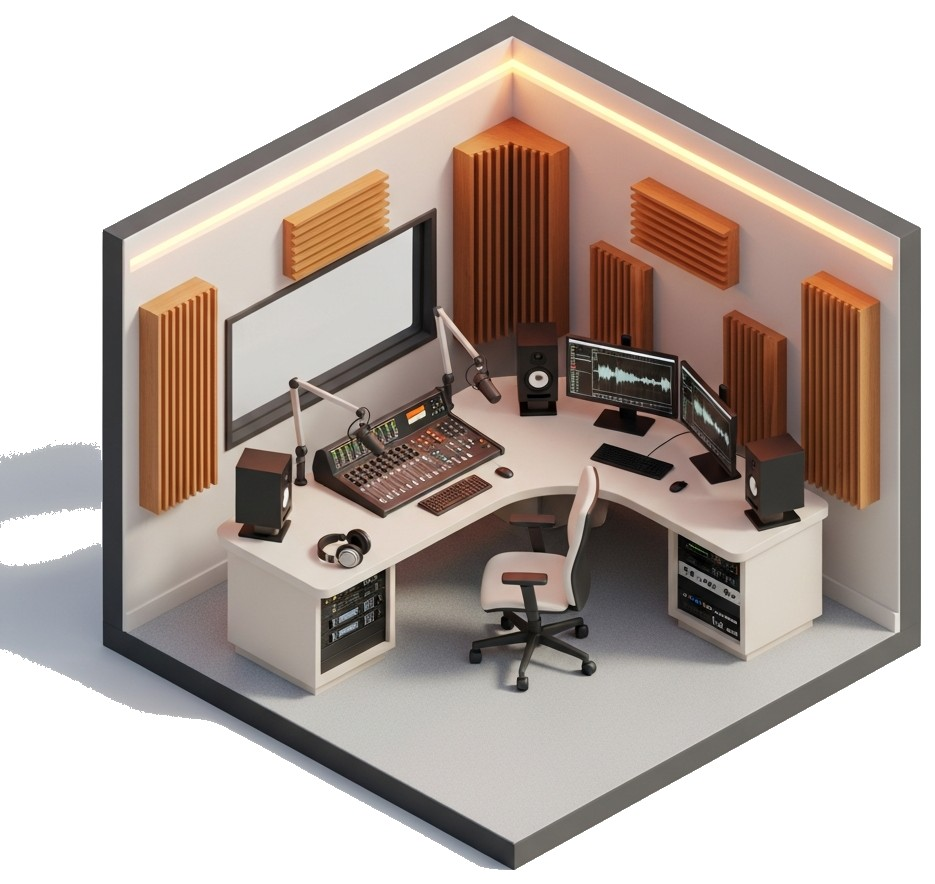
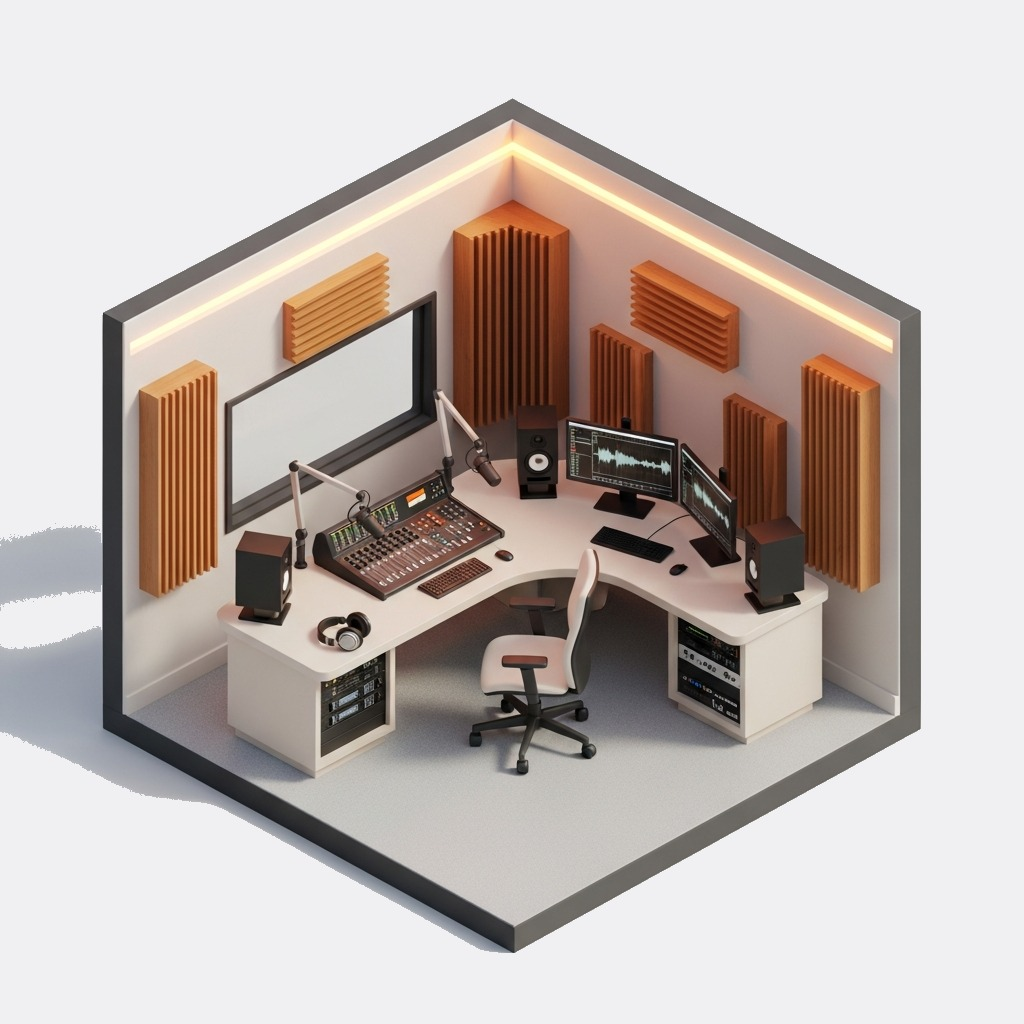
auto-commit for 9d060fbd-8619-4c5f-952d-bc6b7d9a05b0

diff --git a/frontend/src/components/workspace/CreateMainSiteWizard.js b/frontend/src/components/workspace/CreateMainSiteWizard.js
@@ -23,6 +23,14 @@ const SITE_TYPE_BACKGROUNDS = {
   technical: '/images/env_technical.jpg',
   wp_security: '/images/env_wp_security.jpg',
 };
+const WIZARD_THUMBNAILS = {
+  radio: '/images/wiz_radio.jpg',
+  server: '/images/wiz_server.jpg',
+  external_host: '/images/wiz_external_host.jpg',
+  task_scheduler: '/images/wiz_task_scheduler.jpg',
+  technical: '/images/wiz_technical.jpg',
+  wp_security: '/images/wiz_wp_security.jpg',
+};
 
 const SITE_TYPES = [
   { id: 'radio',          icon: Radio,       label: 'Radio Station',     desc: 'Shows, calendar, content library, RDS',    color: '#f97316', features: ['shows', 'calendar', 'content_library', 'media_library', 'team_chat', 'rds_settings'] },
@@ -56,7 +64,7 @@ const StepEnvironment = ({ selected, onSelect }) => (
             {/* Background preview */}
             <div className="h-28 relative overflow-hidden bg-white">
               <img
-                src={SITE_TYPE_BACKGROUNDS[type.id]}
+                src={WIZARD_THUMBNAILS[type.id]}
                 alt=""
                 className={`w-full h-full object-cover transition-all duration-500 ${isActive ? 'scale-110 opacity-90' : 'scale-100 opacity-60 group-hover:opacity-80 group-hover:scale-105'}`}
               />
